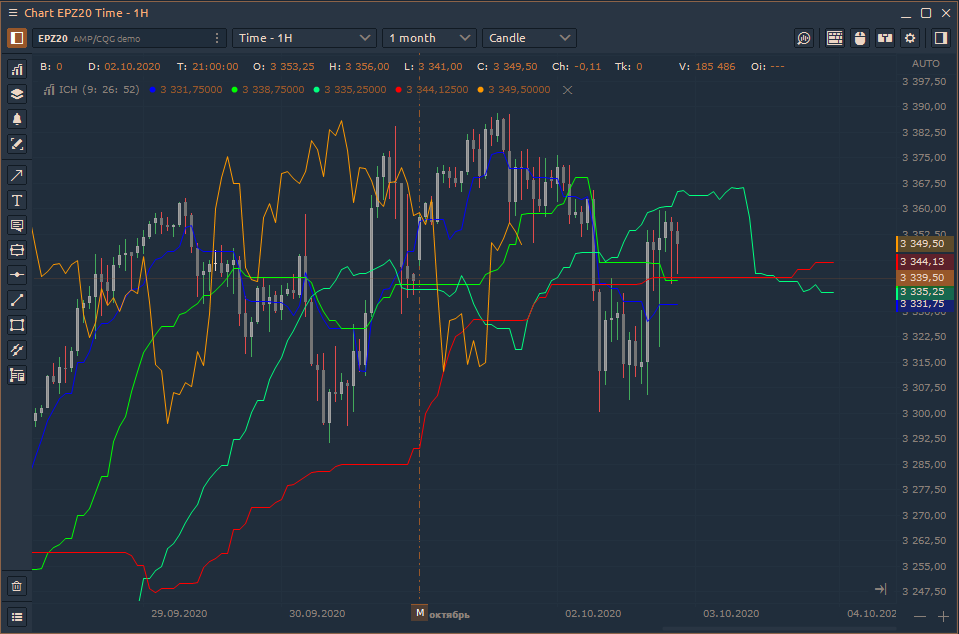
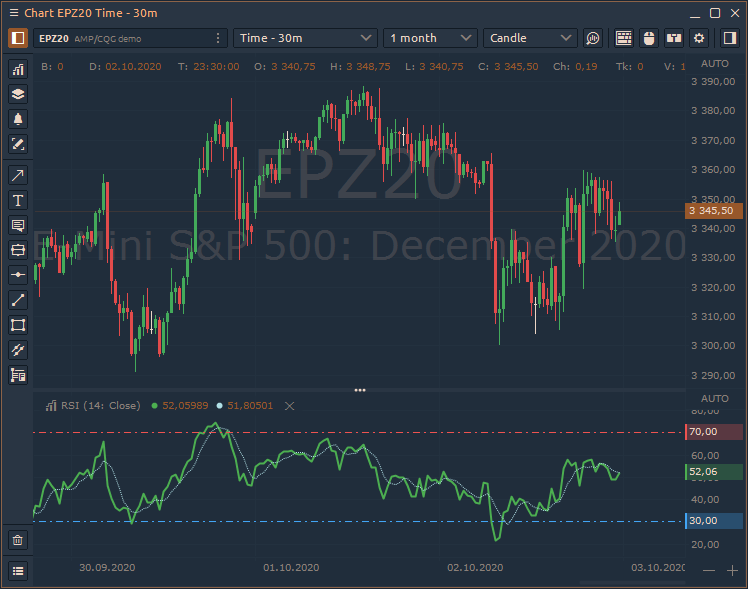
GitBook: [master] 3 pages and 2 assets modified

Changed region(s): [[0.0, 0.0, 1.0, 1.0], [0.6142, 0.764, 0.8291, 0.9168], [0.4299, 0.6112, 0.4606, 0.7029]]

diff --git a/analytics-panels/chart/technical-indicators/oscillators/relative-strength-index-rsi-indicator.md b/analytics-panels/chart/technical-indicators/oscillators/relative-strength-index-rsi-indicator.md
@@ -1,0 +1,22 @@
+# Relative Strength Index \(RSI\) Indicator
+
+**Relative Strength Index \(RSI\)** is a momentum oscillator that measures the speed and change of price movements. The RSI oscillates between zero and 100. Traditionally the RSI is considered overbought when above 70 and oversold when below 30. Signals can be generated by looking for divergences and failure swings. RSI can also be used to identify the general trend.
+
+![](../../../../.gitbook/assets/image%20%2860%29.png)
+
+### How the Relative Strength Index \(RSI\) Indicator works
+
+* RSI is considered overbought when above 70 and oversold when below 30. These traditional levels can also be adjusted if necessary to better fit the asset. For example, if an asset is repeatedly reaching the overbought level of 70 you may want to adjust this level to 80.
+
+  Note: During strong trends, the RSI may remain in overbought or oversold for extended periods.
+
+* RSI also often forms chart patterns that may not show on the underlying price chart, such as double tops and bottoms and trend lines. Also, look for support or resistance on the RSI.
+* In an uptrend or bull market, the RSI tends to remain in the 40 to 90 range with the 40-50 zone acting as support. During a downtrend or bear market, the RSI tends to stay between the 10 to 60 range with the 50-60 zone acting as resistance. These ranges will vary depending on the RSI settings and the strength of the security’s or market’s underlying trend.
+* If underlying prices make a new high or low that isn't confirmed by the RSI, this divergence can signal a price reversal. If the RSI makes a lower high and then follows with a downside move below a previous low, a Top Swing Failure has occurred. If the RSI makes a higher low and then follows with an upside move above a previous high, a Bottom Swing Failure has occurred.
+
+### Calculation of the Relative Strength Index \(RSI\) Indicator
+
+The RSI is a fairly simple formula, but is difficult to explain without pages of examples. The basic formula is:
+
+RSI = 100 – \[100 / \( 1 + \(Average of Upward Price Change / Average of Downward Price Change \) \) \]
+

diff --git a/SUMMARY.md b/SUMMARY.md
@@ -81,6 +81,7 @@
         * [%R Larry Williams](analytics-panels/chart/technical-indicators/oscillators/r-larry-williams.md)
         * [Momentum](analytics-panels/chart/technical-indicators/oscillators/momentum.md)
         * [Rate of Change](analytics-panels/chart/technical-indicators/oscillators/rate-of-change.md)
+        * [Relative Strength Index \(RSI\) Indicator](analytics-panels/chart/technical-indicators/oscillators/relative-strength-index-rsi-indicator.md)
         * [Commodity Channel Index](analytics-panels/chart/technical-indicators/oscillators/commodity-channel-index.md)
       * [Trend](analytics-panels/chart/technical-indicators/trend/README.md)
         * [Average Directional Movement Index \(ADX\) Indicator](analytics-panels/chart/technical-indicators/trend/average-directional-movement-index-adx-indicator.md)

diff --git a/analytics-panels/chart/technical-indicators/trend/ichimoku-indicator.md b/analytics-panels/chart/technical-indicators/trend/ichimoku-indicator.md
@@ -10,7 +10,7 @@ description: >-
 
 The Ichimoku Indicator displays support and resistance, momentum, and trend in one view. TenkanSen and KijunSen are similar to moving averages and analyzed in relationship to one another. When the shorter term indicator, TenkanSen, rises above the longer-term indicator, KijunSen, the securities trend is typically positive. When TenkanSen falls below KijunSen, the securities trend is typically negative. TenkanSen and KijunSen as a group are then analyzed in relationship to the Cloud, which is composed of the area between Senkou A and Senkou B.
 
-![Ichimoku Indicator in Quantower platform](../../../../.gitbook/assets/image%20%2860%29.png)
+![Ichimoku Indicator in Quantower platform](../../../../.gitbook/assets/image%20%2861%29.png)
 
 ### How Ichimoku indicator works
 
